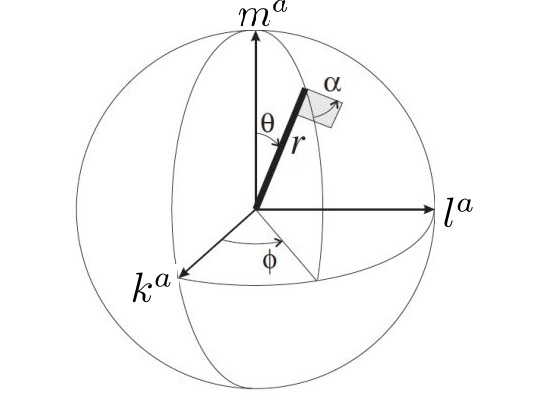
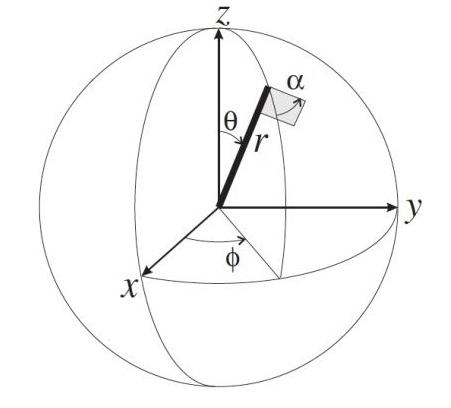
新增《流形上的旋量和旋量场（几何解释）》

diff --git a/content/docs/diffgeo/0077.md b/content/docs/diffgeo/0077.md
@@ -7,9 +7,9 @@ tags: ["流形", "旋量", "对称性"]
 ---
 
 
-> 带度规流形任意点的切空间和平直空间没有数学上的差别，进而平直空间上发展起来的旋量都是可以移到带度规流形上而无需改变。
+> 上一篇，引入旋量概念以及旋量代数。本篇在此基础上给出旋量的一个直观的几何解释。
 >
-> 学习中....
+> 本篇限定讨论闵氏空间上的旋量。
 
 <!--more-->
 
@@ -30,23 +30,31 @@ tags: ["流形", "旋量", "对称性"]
 ## 零模矢量（旗杆）
 
 给定一个旋量$$\xi^A\in W$$，我们可以构造一个作为“旗杆”的实零四维矢量$$k^a\in V_p$$：
+
 $$
 k^a\to k^{AA'}=\xi^A\bar{\xi}^{A'}
 $$
+
 或写成分量形式：
+
 $$
 k^\mu\sigma_\mu^{\ \ \Sigma\Sigma'}=\xi^\Sigma\bar{\xi}^{\Sigma'}\\ \quad \\ \begin{pmatrix} k^0+k^3 & k^1-ik^2 \\ k^1+ik^2 & k^0-k^3 \end{pmatrix} = \begin{pmatrix} \xi^1\bar{\xi}^{1'} & \xi^1\bar{\xi}^{2'} \\ \xi^2\bar{\xi}^{1'} & \xi^2\bar{\xi}^{2'} \end{pmatrix}
 $$
+
 右侧行列式为0，意味着$$k^a$$的确是零模矢量。此外，也可直接验证之：
+
 $$
 \begin{aligned}g_{AA'BB'}k^{AA'}k^{BB'}&=-(\epsilon_{AB}\xi^A\xi^B)(\bar{\epsilon}_{A'B'}\bar{\xi}^{A'}\bar{\xi}^{B'})\\ &=-(\xi_B\xi^B)(\bar{\xi}_{B'}\bar{\xi}^{B'})=-|\xi_B\xi^B|^2=0\end{aligned}
 $$
+
 因此可将$$\xi^A$$看成零模矢量$$k^a$$的“平方根”。 
 
 对任意两个旋量$$\xi^A$$和$$\eta^A$$，我们有：
+
 $$
 g_{AA'BB'}\xi^A\bar{\xi}^{A'}\eta^B\bar{\eta}^{B'}=-(\xi_B\eta^B)(\bar{\xi}_{B'}\bar{\eta}^{B'})=-|\xi_B\eta^B|^2
 $$
+
 因此，任意旋量$$\xi^A$$和$$\eta^A$$所关联的零模矢量，都有一个非正内积（特指$$(-1,1,1,1)$$对应的度规），这些零模矢量躺在光锥的同一半上（我们通常称之为`未来光锥`）。所以矢量空间$$V_p$$有一个自然的时间方向。 
 
 如果$$\eta^A$$和$$\xi^A$$相差一个相位因子【旗因子】，比如，$$\eta^A=c\xi^A,\quad |c|=1，\quad c=e^{i\alpha}$$，那么$$\eta^A$$和$$\xi^A$$关联着同一个零模矢量$$k^a$$，所以**每个零模矢量都关联着一个单参旋量族**。
@@ -54,46 +62,65 @@ $$
 ## 二重矢量（旗）
 
 为了进一步揭示“旗因子”的影响，转而研究由同一旋量$$\xi^A$$产生的实二重矢量$$F^{ab}$$：
+
 $$
 F^{ab}\to F^{AA'BB'}=\xi^A\xi^B\bar{\epsilon}^{A'B'}+\bar{\xi}^{A'}\bar{\xi}^{B'}\epsilon^{AB}
 $$
+
 这个量只有不多余6个不同分量（$$F^{\mu\upsilon}=-F^{\upsilon\mu}$$）。
 
 对给定非0旋量$$\xi^A$$，总能找到另一个旋量$$\eta^a$$，满足：
+
 $$
 \xi_A\eta^A=1
 $$
+
 很明显，$$\{\xi^A,\eta^A\}$$构成一组基旋量，进而：
+
 $$
 \epsilon^{AB}=\xi^A\eta^B-\eta^A\xi^B
 $$
+
 于是有：
+
 $$
 \begin{aligned}F^{AA'BB'}&=\xi^A\xi^B(\bar{\xi}^{A'}\bar{\eta}^{B'}-\bar{\eta}^{A'}\bar{\xi}^{B'})+\bar{\xi}^{A'}\bar{\xi}^{B'}(\xi^A\eta^B-\eta^A\xi^B)\\ &=\xi^A\bar{\xi}^{A'}(\xi^B\bar{\eta}^{B'}+\eta^B\bar{\xi}^{B'})-(\xi^A\bar{\eta}^{A'}+\eta^A\bar{\xi}^{A'})\xi^B\bar{\xi}^{B'}\\ &=\boxed{k^{AA'}l^{BB'}-l^{AA'}k^{BB'}}\end{aligned}
 $$
+
 其中：
+
 $$
 l^{AA'}\overset{\Delta}{=}\xi^A\bar{\eta}^{A'}+\eta^A\bar{\xi}^{A'}
 $$
+
 容易验证：
+
 $$
 \overline{l^{AA'}}=l^{AA'},\quad  l^{AA'}l_{AA'}=-2,\quad k^{AA'}l_{AA'}=0
 $$
-即：
+
+即【利用矢量的旋量表示】：
+
 $$
-\overline{l^{a}}=l^{a},\quad  l^{a}l_{a}=-2,\quad k^{a}l_{a}=0
+\overline{l^{a}}=l^{a},\quad  l^{a}l_{a}=2,\quad k^{a}l_{a}=0
 $$
+
 这说明，$$l^a$$是类空的，长度为$$\sqrt{2}$$的实四维矢量。并且和$$k^a$$正交。【在第一张图上也标记了对应的矢量】
 
 在下面的变换下，
+
 $$
 \eta^A\to \eta^A+c\xi^A
 $$
+
 $$\{\xi^A,\eta^A\}$$始终能构成同样好基旋量，同时有：【在第一张图上也标记了对应的矢量】
+
 $$
 l^a\to l^a+(c+\bar{c})k^a
 $$
+
 因此，由$$\xi^A$$构成的旋量张量$$F^{AA'BB'}$$代表着由两个四维矢量$$k^a$$和$$l^a$$构成的一个二重矢量$$F^{ab}$$：
+
 $$
 F^{ab}=k^a l^b- l^a k^b
 $$
@@ -101,68 +128,71 @@ $$
 ## “指向-缠绕”
 
 考察旋量$$\xi^A$$乘上“旗因子”$$e^{i\alpha}$$变换，则有：
+
 $$
 \xi^A_{\text{旋转}}=e^{i\alpha}\xi^A\quad \eta^A_{\text{旋转}}=e^{-i\alpha}\eta^A
 $$
-首先这个变换对矢量$$k^a$$没有影响，但对矢量$$l^a$$有影响：
+
+首先这个变换对矢量$$k^a$$没有影响，但对矢量$$l^a$$有影响（绕$$k^a$$旋转$$2\alpha$$）：
+
 $$
-\begin{aligned}l^a_{\text{旋转}}\to l^{AA'}_{\text{旋转}}&=e^{2i\alpha}\xi^A\bar{\eta}^{A'}+e^{-2i\alpha}\eta^A\bar{\xi}^{A'}\\ &=\cos 2\alpha(\xi^A\bar{\eta}^{A'}+\eta^A\bar{\xi}^{A'})+\sin 2\alpha(i\xi^A\bar{\eta}^{A'}-i\eta^A\bar{\xi}^{A'})\\  &\to  l^a\cos 2\alpha+m^a\sin 2\alpha\end{aligned}
+\begin{aligned}l^a_{\text{旋转}}\to l^{AA'}_{\text{旋转}}&=e^{2i\alpha}\xi^A\bar{\eta}^{A'}+e^{-2i\alpha}\eta^A\bar{\xi}^{A'}\\ &=\cos 2\alpha(\xi^A\bar{\eta}^{A'}+\eta^A\bar{\xi}^{A'})+\sin 2\alpha(i\xi^A\bar{\eta}^{A'}-i\eta^A\bar{\xi}^{A'})\\  &\to  \boxed{l^a\cos 2\alpha+m^a\sin 2\alpha}\end{aligned}
 $$
+
 其中
+
 $$
-m^a\overset{\Delta}{=}i(\xi^A\bar{\eta}^{A'}-\eta^A\bar{\xi}^{A'})
+m^a\to m^{AA'}\overset{\Delta}{=}i(\xi^A\bar{\eta}^{A'}-\eta^A\bar{\xi}^{A'})
 $$
+
 $$m^a$$共享了矢量$$l^a$$的下述性质：1）实的；2）类空的；3）长度$$\sqrt{2}$$；4）与旗杆的零模四维矢量$$k^a$$正交；5）除相差$$k^a$$实倍数$$(c+\bar{c})$$外，唯一由起初的旋量$$\xi^A$$确定。  此外， $$m^a$$和$$l^a$$也是正交的。
 
-因此，$$\{l^a,m^a\}$$为某个二维空间提供基矢，“旗的尖端”就是在此二维空间中经历了旋转【这种旋转无法图示】。
+因此，$$\{l^a,m^a\}$$为某个二维空间提供基矢，“旗的尖端”就是在此二维空间中经历了旋转，并且旋转的角度是$$2\alpha$$。
 
 ## 旋量、旗杆和旗
 
-用上面得到$$\{k^a,l^a,m^a\}$$构造一个想象中得三维空间，如图：
+如果我们将$k^a$这个零模四维矢量想象成从地球某点O照到月球某点P的激光，那么OP在三维空间的表示如图：
 
 ![](../images/0129.jpg)
 
+进而四维矢量$$k^a$$的分量可表示成：
 
-
-
-
-
-
-
-
-
-
-
-
-
-
-
-
-
-
-
-
-
-
-曾祥飞----411303198904081018
-
-此外，考虑一个实旋量张量：
 $$
-e_{AA'BB'CC'DD'}=i(\epsilon_{AB}\epsilon_{CD}\bar{\epsilon}_{A'C'}\bar{\epsilon}_{B'D'}-\bar{\epsilon}_{A'B'}\bar{\epsilon}_{C'D'}\epsilon_{AC}\epsilon_{BD})
-$$
-定义了一个$$V$$上的全反称的(0,4)型张量，并给出了$$V$$的一个定向。
-
-$$V$$上的(2,0)型张量来看，$$F^{AA'BB'}$$是反称的，比如：$$F^{AA'BB'}=-F^{BB'AA'}$$。此外，$$F^{AA'BB'}$$可写成形如：
-$$
-F^{AA'BB'}=k^{AA'}m^{BB'}-m^{AA'}k^{BB'}
-$$
-其中，$$k^{AA'}$$是零模的，$$m^{AA'}$$正交于$$k^{AA'}$$。我们称为旋量$$\xi^A$$所关联的`零旗`(`null flag`)。两个旋量$$\eta^A$$和$$\xi^A$$关联同一个零旗，当且仅当，两者最多相差一个负号，即$$\eta^A=\pm\xi^A$$。在$$V$$上是不可能构造出一个旋量$$\xi^A$$关联的张量，使得能够区分$$\xi^A$$和$$-\xi^A$$。
-
-现在我们回到时空的各种场的一般问题，最早是出现在量子理论中。收到前面讨论的引导，我们将寻求希尔伯特空间上群$$\mathrm{ISL}(2,\mathbb{C})$$的幺正表示。我们现在将时空上定义旋量场和旋量张量场，满足$$\mathrm{ISL}(2,\mathbb{C})$$下的"变换律"。通过这些场构造希尔伯特空间（随后我们将这样做），这些变换律可生成想要的$$\mathrm{ISL}(2,\mathbb{C})$$表示。
-
-我们在闵氏时空$$(\mathbb{R}^4,\eta_{ab})$$上定义一个旋量场，简单地说，就是时空到旋量空间$$W$$的映射。类似地，旋量张量场可定义称时空到$$W$$上的张量空间的映射。我们按如下方法定义旋量上$$\mathrm{ISL}(2,\mathbb{C})$$上的一个操作。任意$$g\in \mathrm{ISL}(2,\mathbb{C})$$关联一个变换$$\xi^A(x)\to L^A_{\ \ B}\xi^B[P^{-1}(x)]$$，其中，$$L^A_{\ \ B}\in \mathrm{SL}(2,\mathbb{C})$$是$$g$$的"齐次部分"，$$P$$是$$G$$关联的庞加莱群元素。用这种方法，通过强算，得到旋量场的矢量空间上的$$\mathrm{ISL}(2,\mathbb{C})$$表示。然而，这种表示并不符合庞加莱群的真实表示。因为对每个庞加莱元素$$P$$，都有两个$$\mathrm{ISL}(2,\mathbb{C})$$元素。在庞加莱群元$$P$$关联的旋量场上，可以定义一个变换$$P^*$$，但会遇到符号任意性：
-$$
-(P^*\xi)^A(x)=\pm L^A_{\ \ B}\xi^B[P^{-1}(x)]
+(k^\mu)=\begin{pmatrix} k^0 \\ k^1 \\ k^2 \\ k^3  \end{pmatrix}=\begin{pmatrix} r \\ r\sin \theta \cos \phi \\ r\sin \theta \sin \phi \\ r \cos \theta  \end{pmatrix}
 $$
 
+根据旋量和矢量的关系，可解出对应旋量$$\xi^A$$的分量（精确到相差一个不确定“旗因子”）：
 
+$$
+(\xi^\Sigma)=\begin{pmatrix} \xi^1 \\ \xi^2  \end{pmatrix}=\begin{pmatrix} \sqrt{2r}\cos\frac{\theta}{2}\ \exp(\frac{-i(\phi-\alpha)}{2}) \\ \sqrt{2r}\sin\frac{\theta}{2}\ \exp(\frac{i(\phi+\alpha)}{2})   \end{pmatrix}
+$$
+
+旋量$$\eta^A$$可由$$\xi^A$$确定（精确到可加一个$$\xi^A$$的实倍数）：
+
+$$
+(\eta^\Sigma)=\begin{pmatrix} \eta^1 \\ \eta^2  \end{pmatrix}=\begin{pmatrix} -\frac{1}{\sqrt{2r}}\sin\frac{\theta}{2}\ \exp(\frac{-i(\phi+\alpha)}{2}) \\ \frac{1}{\sqrt{2r}}\cos\frac{\theta}{2}\ \exp(\frac{i(\phi-\alpha)}{2})   \end{pmatrix}
+$$
+
+进而：
+
+$$
+l^\mu\sigma_\mu^{\ \ AA'}= l^{AA'}=\xi^A\bar{\eta}^{A'}+\eta^A\bar{\xi}^{A'}\\ \text{改写成分量形式}\\ \begin{pmatrix} l^0+l^3 & l^1-il^2 \\ l^1+il^2 & l^0-l^3 \end{pmatrix} =\begin{pmatrix} \xi^1\bar{\eta}^{1'} & \xi^1\bar{\eta}^{2'} \\ \xi^2\bar{\eta}^{1'} & \xi^2\bar{\eta}^{2'} \end{pmatrix}+\begin{pmatrix} \eta^1\bar{\xi}^{1'} & \eta^1\bar{\xi}^{2'} \\ \eta^2\bar{\xi}^{1'} & \eta^2\bar{\xi}^{2'} \end{pmatrix}
+$$
+
+将旋量分量表达式代入，并解出四维矢量$$l^a$$的所有分量：
+
+$$
+(l^\mu)=\begin{pmatrix} l^0 \\ l^1 \\ l^2 \\ l^3  \end{pmatrix}=\begin{pmatrix} 0 \\ \cos\theta\cos\phi\cos\alpha+\sin\phi\sin\alpha \\ \cos\theta\sin\phi\cos\alpha-\cos\phi\sin\alpha \\ -\sin \theta \cos \alpha  \end{pmatrix}
+$$
+
+最后，不难算出二重矢量$$F^{ab}$$（“旗”）的分量：
+
+$$
+F^{\mu\upsilon}=k^\mu l^\upsilon- l^\mu k^\upsilon
+$$
+
+## 后续计划的内容
+
+三：有关旋量的分析
+
+四：旋量场

diff --git a/content/docs/menu_diffgeo/index.md b/content/docs/menu_diffgeo/index.md
@@ -23,6 +23,7 @@ headless = true
     - [辛群及其李代数]({{< relref "/docs/diffgeo/0073" >}}) 
     - [辛流形]({{< relref "/docs/diffgeo/0074" >}})
     - [流形上的旋量和旋量场（初步）]({{< relref "/docs/diffgeo/0076" >}})
+    - [流形上的旋量和旋量场（几何解释）]({{< relref "/docs/diffgeo/0077" >}})
 - [**机器学习：概率视角**]({{< relref "/docs/mlapp" >}})
 - [**主动投资组合管理**]({{< relref "/docs/apm" >}})
 

diff --git a/content/_index.md b/content/_index.md
@@ -53,6 +53,7 @@ type: docs
 - [15. 辛群及其李代数]({{< relref "/docs/diffgeo/0073" >}}) 
 - [16. 辛流形]({{< relref "/docs/diffgeo/0074" >}})
 - [17. 流形上的旋量和旋量场（初步）]({{< relref "/docs/diffgeo/0076" >}})
+- [18. 流形上的旋量和旋量场（几何解释）]({{< relref "/docs/diffgeo/0077" >}})
 
 {{< /columns >}}
 

diff --git a/content/docs/diffgeo/_index.md b/content/docs/diffgeo/_index.md
@@ -73,3 +73,5 @@ tags: []
 
 [流形上的旋量和旋量场（初步）]({{< relref "/docs/diffgeo/0076" >}})
 
+[流形上的旋量和旋量场（几何解释）]({{< relref "/docs/diffgeo/0077" >}})
+
